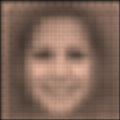
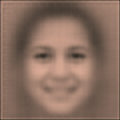
test: 1K -> 3K data, epochs 8 -> 16

diff --git a/Generative AI/Project 002. Conditional VAE 를 이용한 사람 얼굴 생성하기/train_cvae_model.py b/Generative AI/Project 002. Conditional VAE 를 이용한 사람 얼굴 생성하기/train_cvae_model.py
@@ -169,7 +169,7 @@ def train_cvae_model(train_input, train_info):
     # 학습 실시
     cvae_model_class.cvae.fit(
         [train_input, train_info, train_info], train_input,
-        epochs=8,
+        epochs=16,
         batch_size=BATCH_SIZE,
         callbacks=[scheduler_callback],
         shuffle=True
@@ -239,7 +239,7 @@ if __name__ == '__main__':
     np.set_printoptions(suppress=True, linewidth=160)
 
     # 학습 데이터 추출 (이미지 input + 해당 이미지의 class)
-    train_input, train_info = create_train_and_valid_data(limit=1000)
+    train_input, train_info = create_train_and_valid_data(limit=3000)
     
     print(f'\nshape of train input: {np.shape(train_input)}')
     print(train_input)
